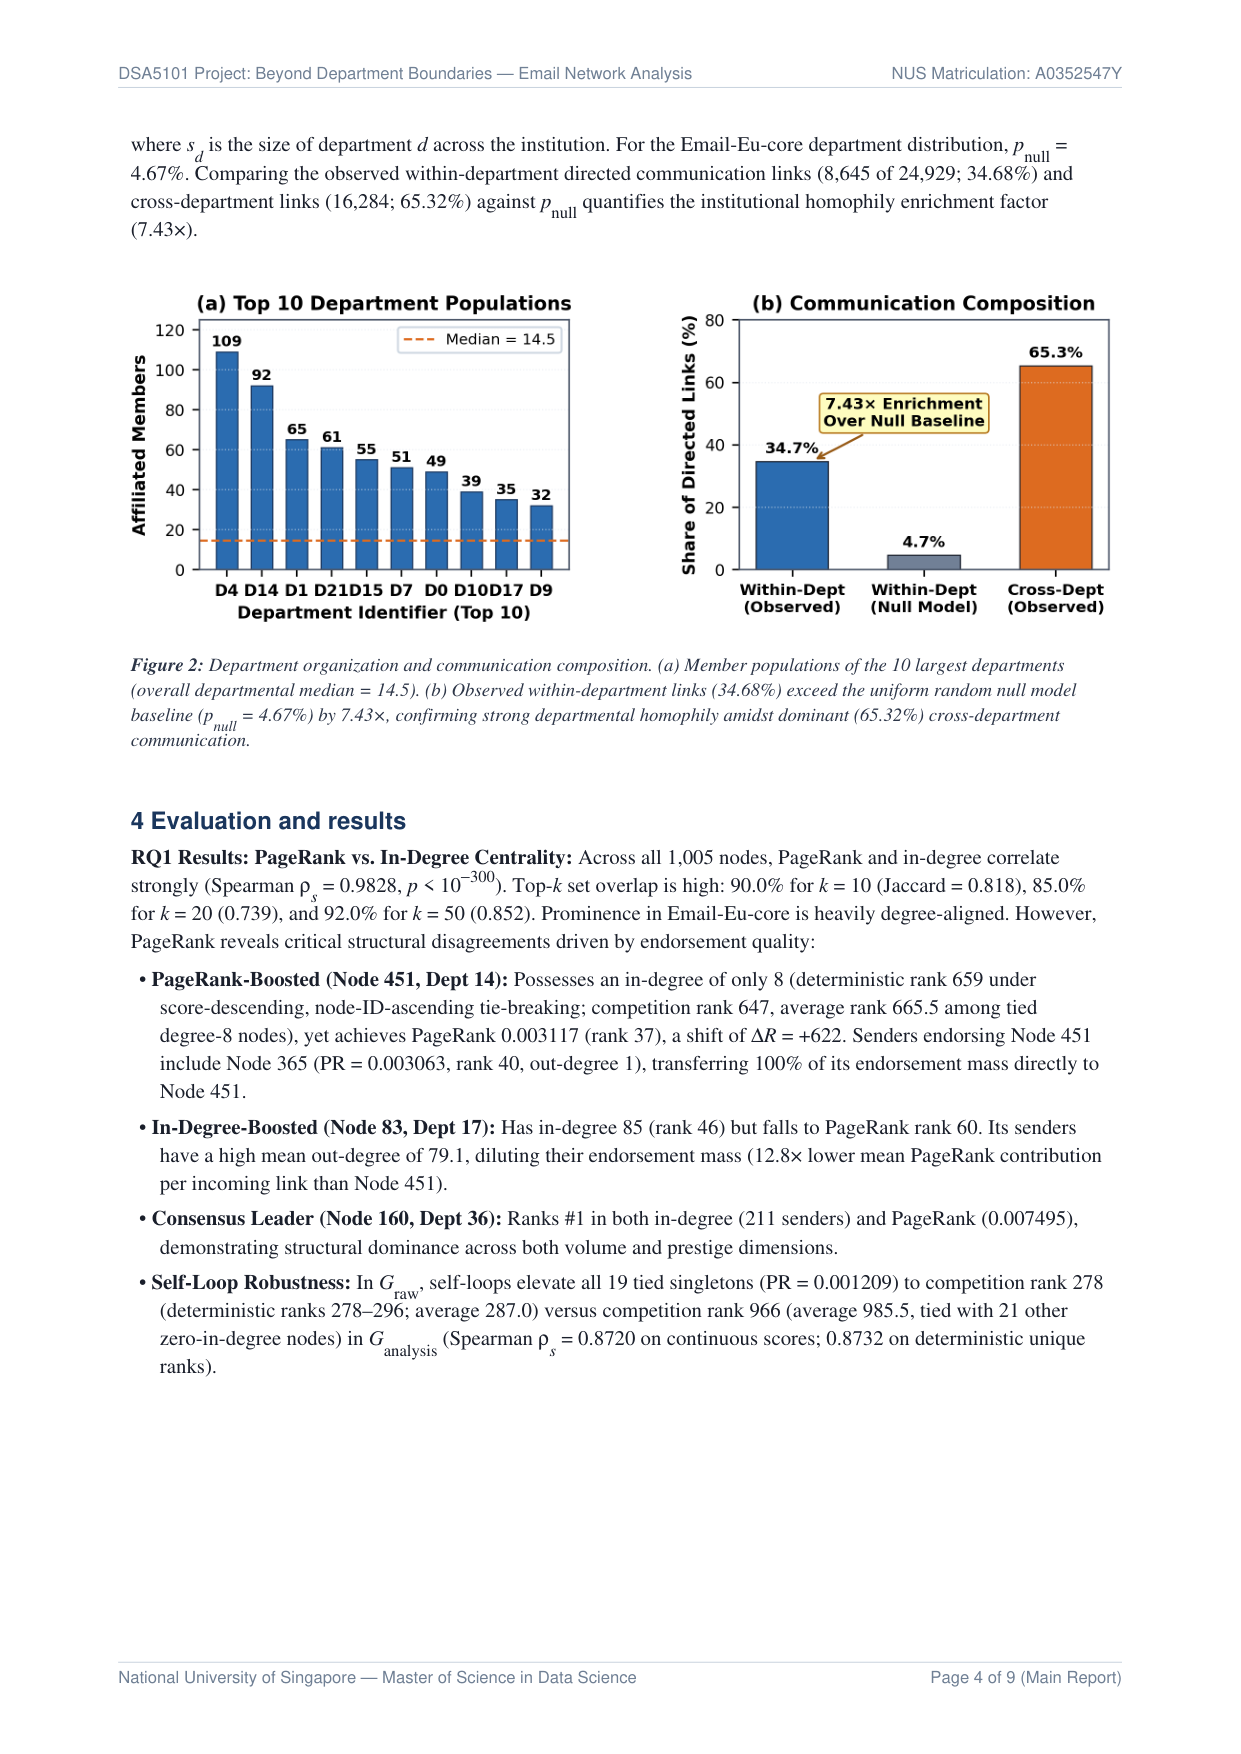
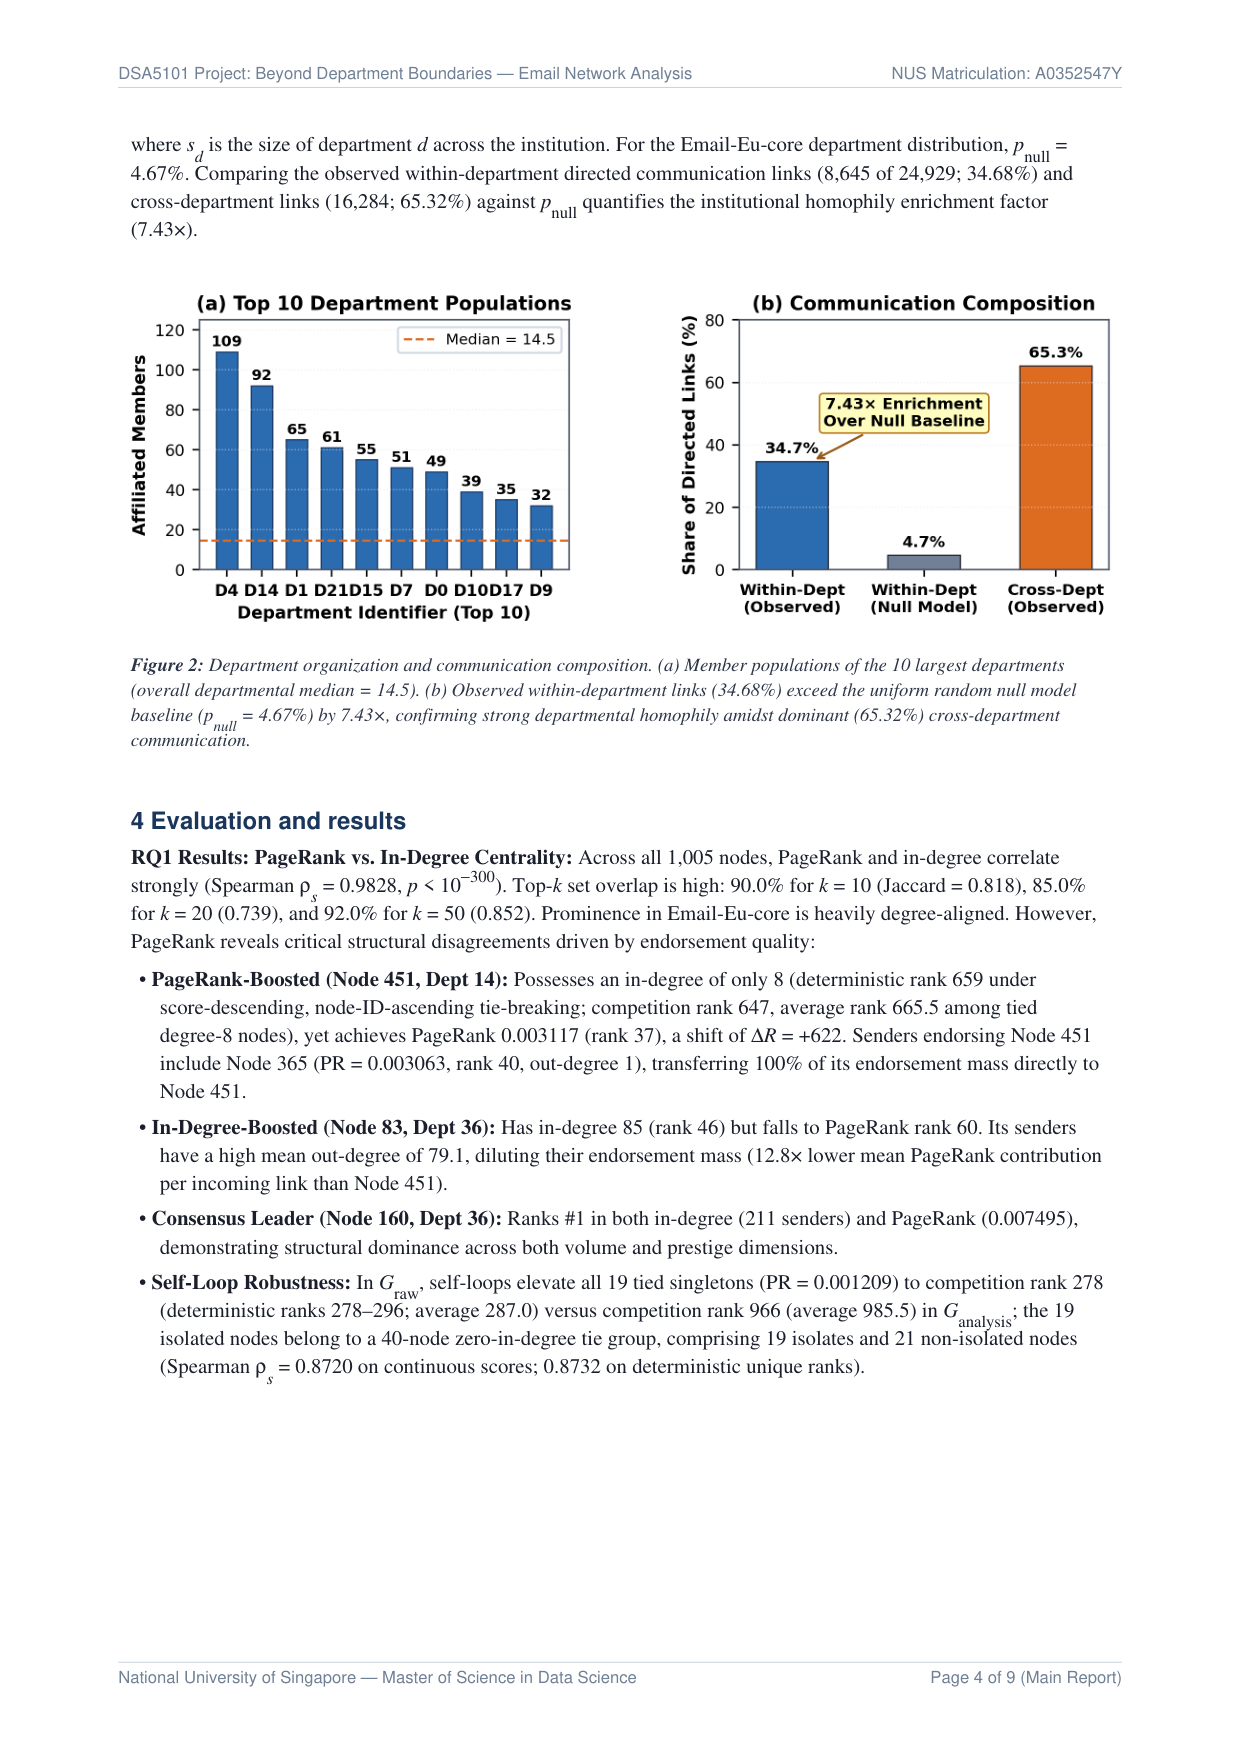
fix: correct final report department label and ranking explanation

Changed region(s): [[0.1225, 0.7389, 0.5205, 0.8005], [0.5818, 0.7389, 0.888, 0.8005], [0.5205, 0.7697, 0.5818, 0.8005]]

diff --git a/scripts/build_report_pdf.py b/scripts/build_report_pdf.py
@@ -503,9 +503,9 @@ def generate_report(output_filename: str = "report.pdf") -> Path:
         body_style
     ))
     story.append(Paragraph("• <b>PageRank-Boosted (Node 451, Dept 14):</b> Possesses an in-degree of only 8 (deterministic rank 659 under score-descending, node-ID-ascending tie-breaking; competition rank 647, average rank 665.5 among tied degree-8 nodes), yet achieves PageRank 0.003117 (rank 37), a shift of &Delta;<i>R</i> = +622. Senders endorsing Node 451 include Node 365 (PR = 0.003063, rank 40, out-degree 1), transferring 100% of its endorsement mass directly to Node 451.", bullet_style))
-    story.append(Paragraph("• <b>In-Degree-Boosted (Node 83, Dept 17):</b> Has in-degree 85 (rank 46) but falls to PageRank rank 60. Its senders have a high mean out-degree of 79.1, diluting their endorsement mass (12.8&times; lower mean PageRank contribution per incoming link than Node 451).", bullet_style))
+    story.append(Paragraph("• <b>In-Degree-Boosted (Node 83, Dept 36):</b> Has in-degree 85 (rank 46) but falls to PageRank rank 60. Its senders have a high mean out-degree of 79.1, diluting their endorsement mass (12.8&times; lower mean PageRank contribution per incoming link than Node 451).", bullet_style))
     story.append(Paragraph("• <b>Consensus Leader (Node 160, Dept 36):</b> Ranks #1 in both in-degree (211 senders) and PageRank (0.007495), demonstrating structural dominance across both volume and prestige dimensions.", bullet_style))
-    story.append(Paragraph("• <b>Self-Loop Robustness:</b> In <i>G</i><sub>raw</sub>, self-loops elevate all 19 tied singletons (PR = 0.001209) to competition rank 278 (deterministic ranks 278&ndash;296; average 287.0) versus competition rank 966 (average 985.5, tied with 21 other zero-in-degree nodes) in <i>G</i><sub>analysis</sub> (Spearman <i>&rho;</i><sub><i>s</i></sub> = 0.8720 on continuous scores; 0.8732 on deterministic unique ranks).", bullet_style))
+    story.append(Paragraph("• <b>Self-Loop Robustness:</b> In <i>G</i><sub>raw</sub>, self-loops elevate all 19 tied singletons (PR = 0.001209) to competition rank 278 (deterministic ranks 278&ndash;296; average 287.0) versus competition rank 966 (average 985.5) in <i>G</i><sub>analysis</sub>; the 19 isolated nodes belong to a 40-node zero-in-degree tie group, comprising 19 isolates and 21 non-isolated nodes (Spearman <i>&rho;</i><sub><i>s</i></sub> = 0.8720 on continuous scores; 0.8732 on deterministic unique ranks).", bullet_style))
     story.append(Spacer(1, 14))  # 14 pt vertical spacing before Figure 3
 
     # Figure 3: PageRank vs In-Degree (aspect ratio 2.91 -> height = 165 pt)

diff --git a/docs/experiment_log.md b/docs/experiment_log.md
@@ -74,7 +74,7 @@
 - **Top-$k$ Overlaps:** Top-10 = $90.0\%$ ($J=0.818$), Top-20 = $85.0\%$ ($J=0.739$), Top-50 = $92.0\%$ ($J=0.852$).
 - **Structural Disagreements:**
   - PageRank-Boosted (Node 451, Dept 14): In-degree = 8 (Rank 659) vs. PR = $0.00307$ (Rank 37), $\Delta R = +622$. Senders include Node 365 ($PR = 0.00306$, Rank 39, Out-degree = 1), transferring $100\%$ of endorsement mass directly to Node 451.
-  - In-Degree-Boosted (Node 83, Dept 17): In-degree = 85 (Rank 45) vs. PR Rank 56. Receives links from broadcasters with mean out-degree $79.1$, diluting incoming endorsements ($12.8\times$ smaller contribution per link).
+  - In-Degree-Boosted (Node 83, Dept 36): In-degree = 85 (Rank 46) vs. PR Rank 60. Receives links from broadcasters with mean out-degree $79.1$, diluting incoming endorsements ($12.8\times$ smaller contribution per link than Node 451).
 - **Damping Factor Sensitivity ($d \in \{0.75, 0.85, 0.95\}$):** High pairwise stability ($\rho_s > 0.996$; top-$k$ overlap $\ge 90\%$).
 - **Self-Loop Robustness Check:** $\rho_s = 0.8732$ between $G_{\text{raw}}$ and $G_{\text{analysis}}$. Self-loops in $G_{\text{raw}}$ artificially elevated 19 peripheral singletons from rank 987 to rank 380 via reflexive trapping.
 - **Generated Publication Figures:**
